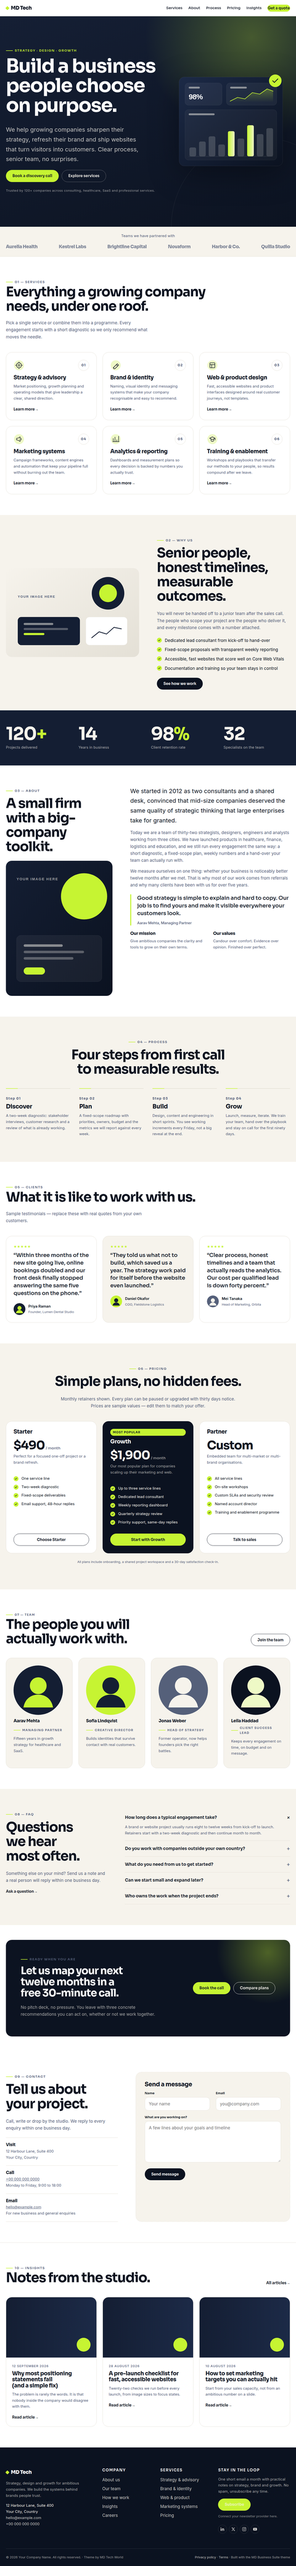
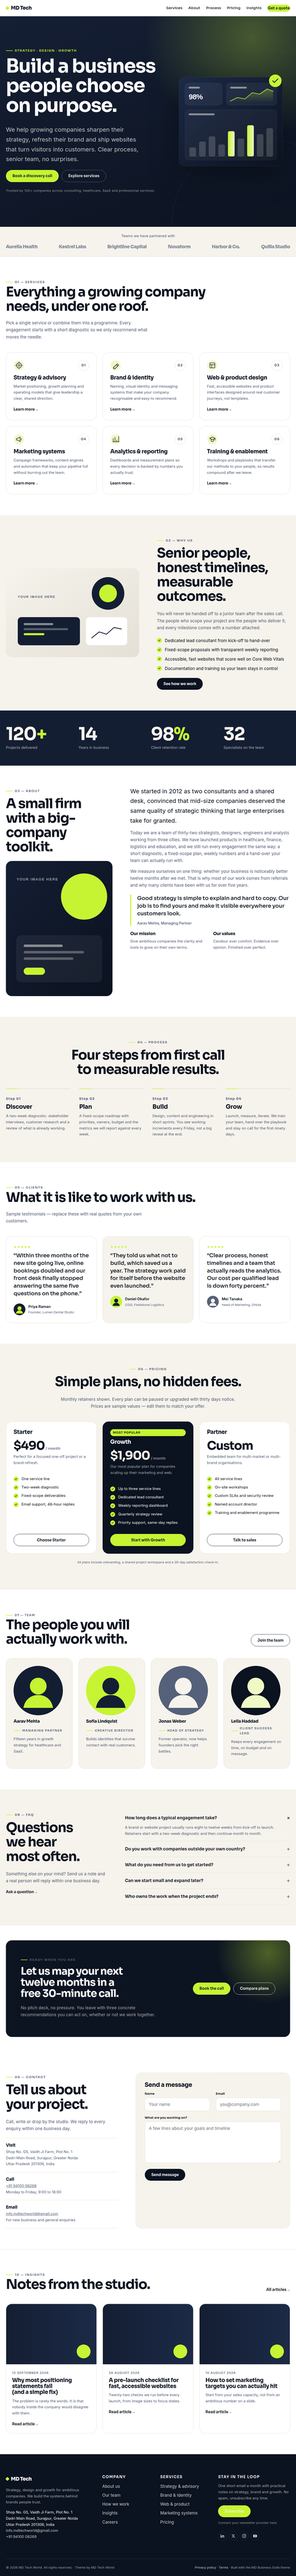
site 2026-10-16

diff --git a/md-business-suite/index.html b/md-business-suite/index.html
@@ -65,15 +65,15 @@ img,svg,video{max-width:100%;height:auto;display:block}h1,h2,h3{overflow-wrap:an
 <button class="menu-btn" id="menu-btn" type="button" aria-expanded="false" aria-controls="site-nav">Menu</button>
 <nav class="nav" id="site-nav" aria-label="Main"><a href="../#products">All products</a><details class="dd"><summary>Categories</summary><ul class="dd-menu"><li><a href="../category/canva-templates/">Canva templates <span>(1)</span></a></li><li><a href="../category/developer-tools/">Developer tools <span>(1)</span></a></li><li><a href="../category/printables/">Printables <span>(1)</span></a></li><li><a href="../category/spreadsheet-templates/">Spreadsheet templates <span>(1)</span></a></li><li><a href="../category/wordpress-themes/">WordPress themes <span>(1)</span></a></li></ul></details><a href="../#how">How buying works</a><a href="../#about">About</a><div class="cur cur-m" role="group" aria-label="Currency"><button type="button" class="cur-b" data-cur="INR" aria-pressed="true"><span aria-hidden="true">₹ </span>INR</button><button type="button" class="cur-b" data-cur="USD" aria-pressed="false"><span aria-hidden="true">$ </span>USD</button></div></nav>
 <div class="tools"><div class="cur cur-d" role="group" aria-label="Currency"><button type="button" class="cur-b" data-cur="INR" aria-pressed="true"><span aria-hidden="true">₹ </span>INR</button><button type="button" class="cur-b" data-cur="USD" aria-pressed="false"><span aria-hidden="true">$ </span>USD</button></div><form class="search" role="search" action="../" method="get"><label class="sr" for="q">Search products</label><input id="q" name="q" type="search" placeholder="Search products" autocomplete="off" enterkeyhint="search"><button type="submit">Search</button></form></div>
-</div></header><main id="main" class="wrap"><nav class="crumbs" aria-label="Breadcrumb"><ol><li><a href="../">Home</a></li><li><a href="../category/wordpress-themes/">WordPress themes</a></li><li aria-current="page">MD Business Suite</li></ol></nav><div class="pgrid"><div class="media"><a href="#pv-1" aria-label="Open the cover image full size"><img class="cover" src="cover-1200.jpg" srcset="cover-800.jpg 800w, cover-1200.jpg 1200w" sizes="(max-width:800px) 100vw, 640px" alt="MD Business Suite: cover" width="1200" height="900" fetchpriority="high"></a><ul class="thumbs" id="gallery" aria-label="Preview images"><li><a href="#pv-2" aria-label="Open preview 2 of 7"><img src="preview-01-480.jpg" alt="" width="480" height="360" loading="lazy" decoding="async"></a></li><li><a href="#pv-3" aria-label="Open preview 3 of 7"><img src="preview-02-480.jpg" alt="" width="480" height="360" loading="lazy" decoding="async"></a></li><li><a href="#pv-4" aria-label="Open preview 4 of 7"><img src="preview-03-480.jpg" alt="" width="480" height="360" loading="lazy" decoding="async"></a></li><li><a href="#pv-5" aria-label="Open preview 5 of 7"><img src="preview-04-480.jpg" alt="" width="390" height="844" loading="lazy" decoding="async"></a></li><li><a href="#pv-6" aria-label="Open preview 6 of 7"><img src="preview-05-480.jpg" alt="" width="480" height="360" loading="lazy" decoding="async"></a></li><li><a href="#pv-7" aria-label="Open preview 7 of 7"><img src="preview-06-480.jpg" alt="" width="480" height="4156" loading="lazy" decoding="async"></a></li></ul><p class="hint">Select any image to view it full size.</p></div><aside class="buybox" aria-label="Price and purchase"><span class="tag">WordPress theme</span><h1>MD Business Suite</h1><p class="sub">Modern multipurpose business block theme for WordPress</p>
+</div></header><main id="main" class="wrap"><nav class="crumbs" aria-label="Breadcrumb"><ol><li><a href="../">Home</a></li><li><a href="../category/wordpress-themes/">WordPress themes</a></li><li aria-current="page">MD Business Suite</li></ol></nav><div class="pgrid"><div class="media"><a href="#pv-1" aria-label="Open the cover image full size"><img class="cover" src="cover-1200.jpg" srcset="cover-800.jpg 800w, cover-1200.jpg 1200w" sizes="(max-width:800px) 100vw, 640px" alt="MD Business Suite: cover" width="1200" height="900" fetchpriority="high"></a><ul class="thumbs" id="gallery" aria-label="Preview images"><li><a href="#pv-2" aria-label="Open preview 2 of 7"><img src="preview-01-480.jpg" alt="" width="480" height="360" loading="lazy" decoding="async"></a></li><li><a href="#pv-3" aria-label="Open preview 3 of 7"><img src="preview-02-480.jpg" alt="" width="480" height="360" loading="lazy" decoding="async"></a></li><li><a href="#pv-4" aria-label="Open preview 4 of 7"><img src="preview-03-480.jpg" alt="" width="480" height="360" loading="lazy" decoding="async"></a></li><li><a href="#pv-5" aria-label="Open preview 5 of 7"><img src="preview-04-480.jpg" alt="" width="390" height="844" loading="lazy" decoding="async"></a></li><li><a href="#pv-6" aria-label="Open preview 6 of 7"><img src="preview-05-480.jpg" alt="" width="480" height="360" loading="lazy" decoding="async"></a></li><li><a href="#pv-7" aria-label="Open preview 7 of 7"><img src="preview-06-480.jpg" alt="" width="480" height="4171" loading="lazy" decoding="async"></a></li></ul><p class="hint">Select any image to view it full size.</p></div><aside class="buybox" aria-label="Price and purchase"><span class="tag">WordPress theme</span><h1>MD Business Suite</h1><p class="sub">Modern multipurpose business block theme for WordPress</p>
 <p class="offer-l"><span class="tag">Offer</span></p><div class="pricebox"><span class="c-inr"><span class="price"><span class=sr>Offer price </span>₹299</span> <del class="was"><span class="sr">Regular price </span>₹499</del></span><span class="c-usd"><span class="price"><span class=sr>Offer price </span>$3.74<span class="sr">, charged as ₹299</span></span> <del class="was"><span class="sr">Regular price </span>$6.02</del></span><span class="save c-inr">Save ₹200 (40%)</span><span class="save c-usd">Save 40%</span></div><p class="pnote muted c-inr">One-time payment · UPI or card · guest checkout</p><p class="pnote muted c-usd">Charged as ₹299 at checkout · PayPal for international buyers</p>
-<div class="btns" id="buy"><a class="btn" href="https://getvik.com/md-tech-world/product/md-business-suite?utm_source=site&utm_medium=web&utm_campaign=md-business-suite" rel="noopener">Buy on Getvik</a><a class="btn ghost" href="demo/">View live demo</a></div><div class="badges"><span class="badge">GPL code + commercial docs</span><span class="badge">Instant download</span><span class="badge">Free updates</span></div><dl class="meta"><dt>Version</dt><dd>1.0.4</dd><dt>Updated</dt><dd>16 Oct 2026</dd><dt>Delivered by</dt><dd>Getvik</dd></dl></aside></div>
+<div class="btns" id="buy"><a class="btn" href="https://getvik.com/md-tech-world/product/md-business-suite?utm_source=site&utm_medium=web&utm_campaign=md-business-suite" rel="noopener">Buy on Getvik</a><a class="btn ghost" href="demo/">View live demo</a></div><div class="badges"><span class="badge">GPL code + commercial docs</span><span class="badge">Instant download</span><span class="badge">Free updates</span></div><dl class="meta"><dt>Version</dt><dd>1.0.5</dd><dt>Updated</dt><dd>16 Oct 2026</dd><dt>Delivered by</dt><dd>Getvik</dd></dl></aside></div>
 <section><h2>What&#39;s included</h2><ul class="inc"><li>md-business-suite.zip — the download itself is the installable WordPress block theme (theme.json v3, GPLv2 code); docs, licence and HTML export sit inside its docs/ folder</li><li>14 block patterns: hero, logo strip, services grid, features split, stats band, about story, process steps, testimonials, pricing table, team grid, FAQ, CTA band, contact section, blog grid</li><li>8 templates (front page, index, page, page without title, single, archive, search, 404) + header, footer and CTA band template parts</li><li>8 block styles (outline-pill, lime and ghost buttons, card and glass-card groups, checklist, accent separator, testimonial quote)</li><li>SVG hero art, icons, avatars and placeholders (no stock photos — add your own)</li><li>md-business-suite-html-export/ — static HTML + CSS landing page version of the front page (included in every ZIP)</li><li>INSTRUCTIONS.pdf documentation + README.txt + LICENSE.txt</li></ul></section>
 <div class="pdetail"><section class="about"><h2>About this product</h2><p>Modern multipurpose WordPress block theme (FSE) with 14 patterns, 8 templates, bold typography and one lime accent — no page builder needed. Install: upload the downloaded ZIP as-is in Appearance → Themes → Upload Theme.</p><p>MD Business Suite is a Full Site Editing block theme for WordPress 6.4+ built for small and mid-size businesses, consultancies, agencies, clinics, SaaS and professional-service firms that want a premium, modern website without Elementor or any other page builder.</p><p>Design: bold editorial headings (Sora) with tight letter-spacing, a clean body face (Inter), a deep navy/ink base with warm off-white sections and a single vivid lime accent, soft 24px cards with hairline borders, pill buttons, numbered section labels (&quot;01 — Services&quot;) and a CSS-only grain-and-gradient hero. Fully responsive with the core Navigation block mobile overlay. Dark-mode colour tokens are included (light by default).</p><p>Sections included as 14 block patterns: Hero, Logo strip, Services grid (6 cards with SVG icons), Features split, Stats band, About story, Process steps, Testimonials, Pricing table (3 plans), Team grid, FAQ (core Details block), CTA band, Contact section (drop in any form plugin) and Blog grid (Query Loop). 8 templates: Front page, Index, Page, Page (no title), Single, Archive, Search, 404, plus Header, Footer and CTA band template parts and 8 block styles.</p><p>Performance: no JavaScript, no sliders, no bundled stock photos — only lightweight SVG illustrations and placeholders that you replace with your own images. Google Fonts can be switched off with one filter for a fully local, privacy-friendly setup. Everything is configured in theme.json v3, so colours, fonts and spacing are edited from Appearance → Editor → Styles.</p><p>Install: upload the downloaded md-business-suite.zip as-is in Appearance → Themes → Add New → Upload Theme, click Install Now, then Activate — no unzipping needed. Create a page called Home, set it as the static homepage under Settings → Reading, and the business front page appears with all sections ready to edit. A static HTML/CSS export of the front page and a PDF guide are included in the download.</p></section>
-<section class="specs"><div class="specs-card"><h2>Requirements and compatibility</h2><dl class="meta"><dt>Requirements</dt><dd>WordPress 6.4+, PHP 7.4+</dd><dt>Product type</dt><dd>WordPress theme</dd><dt>Licence</dt><dd>GPL code + commercial docs</dd><dt>Version</dt><dd>1.0.4</dd><dt>Last updated</dt><dd>16 Oct 2026</dd></dl></div></section></div>
-<section class="faq narrow"><h2 class="c-h">FAQ</h2><details class="q"><summary>How do I install the theme?</summary><p>Upload the downloaded md-business-suite.zip as-is in Appearance → Themes → Add New → Upload Theme → Install Now → Activate. No unzipping needed. Documentation and the HTML export are inside the theme&#x27;s docs/ folder.</p></details><details class="q"><summary>Which WordPress and PHP versions does it need?</summary><p>WordPress 6.4 or newer (block/Full Site Editing theme, theme.json v3) and PHP 7.4 or newer. Tested up to WordPress 6.8.</p></details><details class="q"><summary>Do I need Elementor or another page builder?</summary><p>No. Everything is built with core WordPress blocks and edited in Appearance → Editor. No builder, no shortcodes and no required plugins.</p></details><details class="q"><summary>Can I change the colours and fonts?</summary><p>Yes. Appearance → Editor → Styles lets you edit the palette (Base, Cream, Stone, Slate, Navy, Ink, Lime) and font families; all patterns update automatically. Google Fonts can be disabled with a filter so only local fonts are used.</p></details><details class="q"><summary>Are photos or images included?</summary><p>No stock photos are bundled. The theme ships lightweight SVG illustrations, icons and placeholders; replace them with your own images from the Media Library (Image block → Replace).</p></details><details class="q"><summary>What about updates, support and refunds?</summary><p>Updates to version 1.x are free for past buyers through the platform you purchased on. Support: reply to your order email. As with all digital downloads, refunds are only issued if the files are defective and cannot be fixed.</p></details></section>
+<section class="specs"><div class="specs-card"><h2>Requirements and compatibility</h2><dl class="meta"><dt>Requirements</dt><dd>WordPress 6.4+, PHP 7.4+</dd><dt>Product type</dt><dd>WordPress theme</dd><dt>Licence</dt><dd>GPL code + commercial docs</dd><dt>Version</dt><dd>1.0.5</dd><dt>Last updated</dt><dd>16 Oct 2026</dd></dl></div></section></div>
+<section class="faq narrow"><h2 class="c-h">FAQ</h2><details class="q"><summary>How do I install the theme?</summary><p>Upload the downloaded md-business-suite.zip as-is in Appearance → Themes → Add New → Upload Theme → Install Now → Activate. No unzipping needed. Documentation and the HTML export are inside the theme&#x27;s docs/ folder.</p></details><details class="q"><summary>Which WordPress and PHP versions does it need?</summary><p>WordPress 6.4 or newer (block/Full Site Editing theme, theme.json v3) and PHP 7.4 or newer. Tested up to WordPress 7.0.</p></details><details class="q"><summary>Do I need Elementor or another page builder?</summary><p>No. Everything is built with core WordPress blocks and edited in Appearance → Editor. No builder, no shortcodes and no required plugins.</p></details><details class="q"><summary>Can I change the colours and fonts?</summary><p>Yes. Appearance → Editor → Styles lets you edit the palette (Base, Cream, Stone, Slate, Navy, Ink, Lime) and font families; all patterns update automatically. Google Fonts can be disabled with a filter so only local fonts are used.</p></details><details class="q"><summary>Are photos or images included?</summary><p>No stock photos are bundled. The theme ships lightweight SVG illustrations, icons and placeholders; replace them with your own images from the Media Library (Image block → Replace).</p></details><details class="q"><summary>What about updates, support and refunds?</summary><p>Updates to version 1.x are free for past buyers through the platform you purchased on. Support: reply to your order email. As with all digital downloads, refunds are only issued if the files are defective and cannot be fixed.</p></details></section>
 <div class="cta-band"><div><strong>MD Business Suite</strong><br><span class="muted"><span class="c-inr"><span class=""><span class=sr>Offer price </span>₹299</span> <del class="was"><span class="sr">Regular price </span>₹499</del></span><span class="c-usd"><span class=""><span class=sr>Offer price </span>$3.74<span class="sr">, charged as ₹299</span></span> <del class="was"><span class="sr">Regular price </span>$6.02</del></span> · instant download after payment · free updates within this version</span></div><div class="btns"><a class="btn" href="https://getvik.com/md-tech-world/product/md-business-suite?utm_source=site&utm_medium=web&utm_campaign=md-business-suite" rel="noopener">Buy on Getvik</a></div></div>
-<section><h2>More from the store</h2><div class="grid"><a class="card" href="../ai-handoff-kit/"><div class="thumb"><img src="../ai-handoff-kit/cover-800.jpg" alt="" width="800" height="600" loading=lazy decoding="async"></div><div class="b"><span class="tag">Developer tool</span><h3>AI Handoff Kit: One Agent Setup for Every AI Coding Tool (Claude Code, Codex, Cursor, Copilot, Gemini, Kiro, Windsurf + 19 more)</h3><p>Python kit that generates every AI coding tool&#x27;s config (AGENTS.md, Cursor, Copilot, Gemini, Kiro…</p><div class="row"><span><span class="c-inr"><span class="price">₹499</span></span><span class="c-usd"><span class="price">$6.02<span class="sr">, charged as ₹499</span></span></span></span><span class="go" aria-hidden="true">View &rarr;</span></div></div></a><a class="card" href="../festive-sale-instagram-kit/"><div class="thumb"><img src="../festive-sale-instagram-kit/cover-800.jpg" alt="" width="800" height="600" loading=lazy decoding="async"></div><div class="b"><span class="tag">Canva template</span><h3>Festive Sale Instagram Kit: Diwali to New Year</h3><p>One matching set of Instagram sale graphics for the whole festive season, Dhanteras to New Year 2027…</p><div class="row"><span><span class="c-inr"><span class="price">₹149</span></span><span class="c-usd"><span class="price">$2.03<span class="sr">, charged as ₹149</span></span></span></span><span class="go" aria-hidden="true">View &rarr;</span></div></div></a><a class="card" href="../gst-invoice-expense-tracker/"><div class="thumb"><img src="../gst-invoice-expense-tracker/cover-800.jpg" alt="" width="800" height="600" loading=lazy decoding="async"></div><div class="b"><span class="tag">Spreadsheet</span><h3>GST Invoice &amp; Expense Tracker FY 2026-27</h3><p>One Excel / Google Sheets workbook for self-employed professionals and small businesses in India that…</p><div class="row"><span><span class="c-inr"><span class="price">₹199</span></span><span class="c-usd"><span class="price">$2.60<span class="sr">, charged as ₹199</span></span></span></span><span class="go" aria-hidden="true">View &rarr;</span></div></div></a></div></section><div class="lb" id="pv-1" role="dialog" aria-label="Preview 1 of 7"><figure><img src="cover.jpg" alt="MD Business Suite, image 1 of 7" width="1600" height="1200" loading="lazy" decoding="async"><figcaption>1 / 7</figcaption></figure><a class="lb-x" href="#gallery">Close</a><a class="lb-n" href="#pv-2">Next &rarr;</a></div><div class="lb" id="pv-2" role="dialog" aria-label="Preview 2 of 7"><figure><img src="preview-01.png" alt="MD Business Suite, image 2 of 7" width="1200" height="900" loading="lazy" decoding="async"><figcaption>2 / 7</figcaption></figure><a class="lb-x" href="#gallery">Close</a><a class="lb-p" href="#pv-1">&larr; Previous</a><a class="lb-n" href="#pv-3">Next &rarr;</a></div><div class="lb" id="pv-3" role="dialog" aria-label="Preview 3 of 7"><figure><img src="preview-02.png" alt="MD Business Suite, image 3 of 7" width="1200" height="900" loading="lazy" decoding="async"><figcaption>3 / 7</figcaption></figure><a class="lb-x" href="#gallery">Close</a><a class="lb-p" href="#pv-2">&larr; Previous</a><a class="lb-n" href="#pv-4">Next &rarr;</a></div><div class="lb" id="pv-4" role="dialog" aria-label="Preview 4 of 7"><figure><img src="preview-03.png" alt="MD Business Suite, image 4 of 7" width="1200" height="900" loading="lazy" decoding="async"><figcaption>4 / 7</figcaption></figure><a class="lb-x" href="#gallery">Close</a><a class="lb-p" href="#pv-3">&larr; Previous</a><a class="lb-n" href="#pv-5">Next &rarr;</a></div><div class="lb" id="pv-5" role="dialog" aria-label="Preview 5 of 7"><figure><img src="preview-04.png" alt="MD Business Suite, image 5 of 7" width="390" height="844" loading="lazy" decoding="async"><figcaption>5 / 7</figcaption></figure><a class="lb-x" href="#gallery">Close</a><a class="lb-p" href="#pv-4">&larr; Previous</a><a class="lb-n" href="#pv-6">Next &rarr;</a></div><div class="lb" id="pv-6" role="dialog" aria-label="Preview 6 of 7"><figure><img src="preview-05.png" alt="MD Business Suite, image 6 of 7" width="1200" height="900" loading="lazy" decoding="async"><figcaption>6 / 7</figcaption></figure><a class="lb-x" href="#gallery">Close</a><a class="lb-p" href="#pv-5">&larr; Previous</a><a class="lb-n" href="#pv-7">Next &rarr;</a></div><div class="lb" id="pv-7" role="dialog" aria-label="Preview 7 of 7"><figure><img src="preview-06.png" alt="MD Business Suite, image 7 of 7" width="480" height="4156" loading="lazy" decoding="async"><figcaption>7 / 7</figcaption></figure><a class="lb-x" href="#gallery">Close</a><a class="lb-p" href="#pv-6">&larr; Previous</a></div>
+<section><h2>More from the store</h2><div class="grid"><a class="card" href="../ai-handoff-kit/"><div class="thumb"><img src="../ai-handoff-kit/cover-800.jpg" alt="" width="800" height="600" loading=lazy decoding="async"></div><div class="b"><span class="tag">Developer tool</span><h3>AI Handoff Kit: One Agent Setup for Every AI Coding Tool (Claude Code, Codex, Cursor, Copilot, Gemini, Kiro, Windsurf + 19 more)</h3><p>Python kit that generates every AI coding tool&#x27;s config (AGENTS.md, Cursor, Copilot, Gemini, Kiro…</p><div class="row"><span><span class="c-inr"><span class="price">₹499</span></span><span class="c-usd"><span class="price">$6.02<span class="sr">, charged as ₹499</span></span></span></span><span class="go" aria-hidden="true">View &rarr;</span></div></div></a><a class="card" href="../festive-sale-instagram-kit/"><div class="thumb"><img src="../festive-sale-instagram-kit/cover-800.jpg" alt="" width="800" height="600" loading=lazy decoding="async"></div><div class="b"><span class="tag">Canva template</span><h3>Festive Sale Instagram Kit: Diwali to New Year</h3><p>One matching set of Instagram sale graphics for the whole festive season, Dhanteras to New Year 2027…</p><div class="row"><span><span class="c-inr"><span class="price">₹149</span></span><span class="c-usd"><span class="price">$2.03<span class="sr">, charged as ₹149</span></span></span></span><span class="go" aria-hidden="true">View &rarr;</span></div></div></a><a class="card" href="../gst-invoice-expense-tracker/"><div class="thumb"><img src="../gst-invoice-expense-tracker/cover-800.jpg" alt="" width="800" height="600" loading=lazy decoding="async"></div><div class="b"><span class="tag">Spreadsheet</span><h3>GST Invoice &amp; Expense Tracker FY 2026-27</h3><p>One Excel / Google Sheets workbook for self-employed professionals and small businesses in India that…</p><div class="row"><span><span class="c-inr"><span class="price">₹199</span></span><span class="c-usd"><span class="price">$2.60<span class="sr">, charged as ₹199</span></span></span></span><span class="go" aria-hidden="true">View &rarr;</span></div></div></a></div></section><div class="lb" id="pv-1" role="dialog" aria-label="Preview 1 of 7"><figure><img src="cover.jpg" alt="MD Business Suite, image 1 of 7" width="1600" height="1200" loading="lazy" decoding="async"><figcaption>1 / 7</figcaption></figure><a class="lb-x" href="#gallery">Close</a><a class="lb-n" href="#pv-2">Next &rarr;</a></div><div class="lb" id="pv-2" role="dialog" aria-label="Preview 2 of 7"><figure><img src="preview-01.png" alt="MD Business Suite, image 2 of 7" width="1200" height="900" loading="lazy" decoding="async"><figcaption>2 / 7</figcaption></figure><a class="lb-x" href="#gallery">Close</a><a class="lb-p" href="#pv-1">&larr; Previous</a><a class="lb-n" href="#pv-3">Next &rarr;</a></div><div class="lb" id="pv-3" role="dialog" aria-label="Preview 3 of 7"><figure><img src="preview-02.png" alt="MD Business Suite, image 3 of 7" width="1200" height="900" loading="lazy" decoding="async"><figcaption>3 / 7</figcaption></figure><a class="lb-x" href="#gallery">Close</a><a class="lb-p" href="#pv-2">&larr; Previous</a><a class="lb-n" href="#pv-4">Next &rarr;</a></div><div class="lb" id="pv-4" role="dialog" aria-label="Preview 4 of 7"><figure><img src="preview-03.png" alt="MD Business Suite, image 4 of 7" width="1200" height="900" loading="lazy" decoding="async"><figcaption>4 / 7</figcaption></figure><a class="lb-x" href="#gallery">Close</a><a class="lb-p" href="#pv-3">&larr; Previous</a><a class="lb-n" href="#pv-5">Next &rarr;</a></div><div class="lb" id="pv-5" role="dialog" aria-label="Preview 5 of 7"><figure><img src="preview-04.png" alt="MD Business Suite, image 5 of 7" width="390" height="844" loading="lazy" decoding="async"><figcaption>5 / 7</figcaption></figure><a class="lb-x" href="#gallery">Close</a><a class="lb-p" href="#pv-4">&larr; Previous</a><a class="lb-n" href="#pv-6">Next &rarr;</a></div><div class="lb" id="pv-6" role="dialog" aria-label="Preview 6 of 7"><figure><img src="preview-05.png" alt="MD Business Suite, image 6 of 7" width="1200" height="900" loading="lazy" decoding="async"><figcaption>6 / 7</figcaption></figure><a class="lb-x" href="#gallery">Close</a><a class="lb-p" href="#pv-5">&larr; Previous</a><a class="lb-n" href="#pv-7">Next &rarr;</a></div><div class="lb" id="pv-7" role="dialog" aria-label="Preview 7 of 7"><figure><img src="preview-06.png" alt="MD Business Suite, image 7 of 7" width="480" height="4171" loading="lazy" decoding="async"><figcaption>7 / 7</figcaption></figure><a class="lb-x" href="#gallery">Close</a><a class="lb-p" href="#pv-6">&larr; Previous</a></div>
 <div class="buybar" id="buybar"><span><span class="c-inr"><span class="price"><span class=sr>Offer price </span>₹299</span> <del class="was"><span class="sr">Regular price </span>₹499</del></span><span class="c-usd"><span class="price"><span class=sr>Offer price </span>$3.74<span class="sr">, charged as ₹299</span></span> <del class="was"><span class="sr">Regular price </span>$6.02</del></span></span><a class="btn" href="https://getvik.com/md-tech-world/product/md-business-suite?utm_source=site&utm_medium=web&utm_campaign=md-business-suite" rel="noopener">Buy on Getvik</a></div></main><footer class="site-f"><div class="wrap"><div class="fgrid">
 <div class="fbrand"><a class="brand" href="../"><img src="../favicon.svg" alt="" width="30" height="30" loading="lazy">MD Tech World</a><p>Instant-download developer tools, Canva templates, spreadsheet templates, printables and WordPress themes for freelancers, students and small businesses in India.</p><p>Checkout and delivery by <a href="https://getvik.com/md-tech-world" rel="noopener">Getvik</a>.</p></div>
 <nav aria-label="Categories"><p class="fh">Categories</p><ul><li><a href="../category/canva-templates/">Canva templates</a></li><li><a href="../category/developer-tools/">Developer tools</a></li><li><a href="../category/printables/">Printables</a></li><li><a href="../category/spreadsheet-templates/">Spreadsheet templates</a></li><li><a href="../category/wordpress-themes/">WordPress themes</a></li></ul></nav><nav aria-label="Shop"><p class="fh">Shop</p><ul><li><a href="../#products">All products</a></li><li><a href="../#newest">Newest</a></li><li><a href="../feed.xml">RSS feed</a></li><li><a href="../sitemap.xml">Sitemap</a></li></ul></nav><nav aria-label="Help"><p class="fh">Help</p><ul><li><a href="../#how">How buying works</a></li><li><a href="../#faq">FAQ</a></li><li><a href="../#about">About</a></li><li><a href="mailto:info.mdtechworld@gmail.com" rel="noopener me">Email</a></li></ul></nav><nav aria-label="Buy on"><p class="fh">Buy on</p><ul><li><a href="https://getvik.com/md-tech-world" rel="noopener">Getvik store</a></li></ul></nav></div>

diff --git a/md-business-suite/demo/index.html b/md-business-suite/demo/index.html
@@ -205,9 +205,9 @@
       <h2>Tell us about your project.</h2>
       <p class="muted">Call, write or drop by the studio. We reply to every enquiry within one business day.</p>
       <div style="margin-top:1.5rem">
-        <div class="contact-item"><h4>Visit</h4><p class="muted small">12 Harbour Lane, Suite 400<br>Your City, Country</p></div>
-        <div class="contact-item"><h4>Call</h4><p class="muted small"><a href="tel:+000000000000">+00 000 000 0000</a><br>Monday to Friday, 9:00 to 18:00</p></div>
-        <div class="contact-item"><h4>Email</h4><p class="muted small"><a href="mailto:hello@example.com">hello@example.com</a><br>For new business and general enquiries</p></div>
+        <div class="contact-item"><h4>Visit</h4><p class="muted small">Shop No. G5, Vaidh Ji Farm, Plot No. 1<br>Dadri Main Road, Surajpur, Greater Noida<br>Uttar Pradesh 201306, India</p></div>
+        <div class="contact-item"><h4>Call</h4><p class="muted small"><a href="tel:+919410008269">+91 94100 08269</a><br>Monday to Friday, 9:00 to 18:00</p></div>
+        <div class="contact-item"><h4>Email</h4><p class="muted small"><a href="mailto:info.mdtechworld@gmail.com">info.mdtechworld@gmail.com</a><br>For new business and general enquiries</p></div>
       </div>
     </div>
     <form class="form" action="#">
@@ -246,7 +246,7 @@
       <div>
         <a class="mark" href="#top">MD Tech</a>
         <p class="muted small" style="margin-top:1rem">Strategy, design and growth for ambitious companies. We build the systems behind brands people trust.</p>
-        <p class="small">12 Harbour Lane, Suite 400<br>Your City, Country<br><a href="mailto:hello@example.com">hello@example.com</a><br><a href="tel:+000000000000">+00 000 000 0000</a></p>
+        <p class="small">Shop No. G5, Vaidh Ji Farm, Plot No. 1<br>Dadri Main Road, Surajpur, Greater Noida<br>Uttar Pradesh 201306, India<br><a href="mailto:info.mdtechworld@gmail.com">info.mdtechworld@gmail.com</a><br><a href="tel:+919410008269">+91 94100 08269</a></p>
       </div>
       <div><h4>Company</h4><ul><li><a href="#about">About us</a></li><li><a href="#team">Our team</a></li><li><a href="#process">How we work</a></li><li><a href="#blog">Insights</a></li><li><a href="#contact">Careers</a></li></ul></div>
       <div><h4>Services</h4><ul><li><a href="#services">Strategy &amp; advisory</a></li><li><a href="#services">Brand &amp; identity</a></li><li><a href="#services">Web &amp; product</a></li><li><a href="#services">Marketing systems</a></li><li><a href="#pricing">Pricing</a></li></ul></div>
@@ -263,7 +263,7 @@
         </div>
       </div>
     </div>
-    <div class="bottom"><p>© 2026 Your Company Name. All rights reserved. · Theme by MD Tech World</p><p><a href="#">Privacy policy</a> · <a href="#">Terms</a> · Built with the MD Business Suite theme</p></div>
+    <div class="bottom"><p>© 2026 MD Tech World. All rights reserved. · Theme by MD Tech World</p><p><a href="#">Privacy policy</a> · <a href="#">Terms</a> · Built with the MD Business Suite theme</p></div>
   </div>
 </footer>
 
